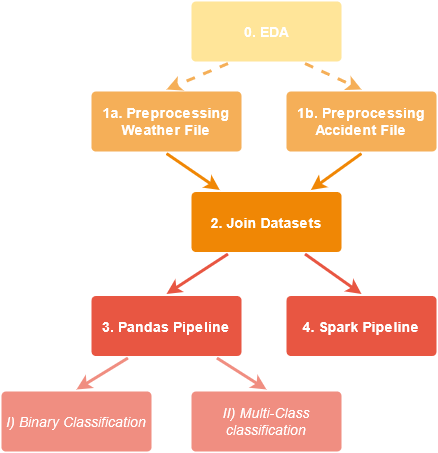
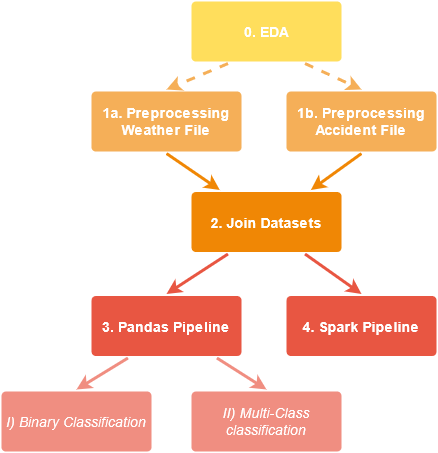
Added EDA to readme

Changed region(s): [[0.4155, 0.0, 0.8014, 0.1545]]

diff --git a/README.md b/README.md
@@ -1,9 +1,9 @@
 # Big-Data-Analytics-Group-Project
-Welcome to the repository of group 23 for the course 'Big-Data Analytics' in FS 21.
+Welcome to the repository of group 23 for the course 'Big-Data Analytics' in FS 21. Our team members are: Alexander Wyss, Andrea Meier, Anton Schwarz, Maximilian Weber and Michael Nadig .
 
 
 
-In our project we try to predict te severity of car accidents in the town of Zurich based on weather data. 
+In our project we try to predict the possibility of car accidents in the town of Zurich based on weather data. 
 
 ## Structure of Repository
 In the following you can see the structure of our repository: 
@@ -15,6 +15,8 @@ The data for our work we got from [Open Data Zurich](https://www.stadt-zuerich.c
 * [RoadTrafficAccidentLocations.csv](https://data.stadt-zuerich.ch/dataset/sid_dav_strassenverkehrsunfallorte) which provides the police-registered road traffic accidents with personal injury and property damage in the Zurich city area since 2011. And
 * [messwerte_mythenquai_2007-2020.csv](https://data.stadt-zuerich.ch/dataset/sid_wapo_wetterstationen) which  provides measured values for both current and past weather situations.
 
+## EDA
+After we have gathered our data we had a first look at it to familarize. We wanted to find out about things like what are the max, min and average values of our variables. How many accidents event do we have compared to non-accident events? What are the monthly averages for accident or air temperature? How are our accidents distributed during the day? etc. All the plots can be found in the [EDA notebook](https://github.com/Antonio-226/Big-Data-Analytics-Group-Project/blob/main/EDA.ipynb).
 ## Data Processing
 In a first step we needed to prepare the two datasets for the later join. This included deriving the date from weekday, month and year information in the accidents datasets and accumulating the weatherdata to the same time interval as the accident data. To get a more detailed description and find out more about all preprocessing steps see the files [Preprocessing_Accidents.ipynb](https://github.com/Antonio-226/Big-Data-Analytics-Group-Project/blob/main/Preprocessing_Accidents.ipynb) or [Preprocessing_Weather.ipynb](https://github.com/Antonio-226/Big-Data-Analytics-Group-Project/blob/main/Preprocessing_Weather.ipynb) respectively.
 
